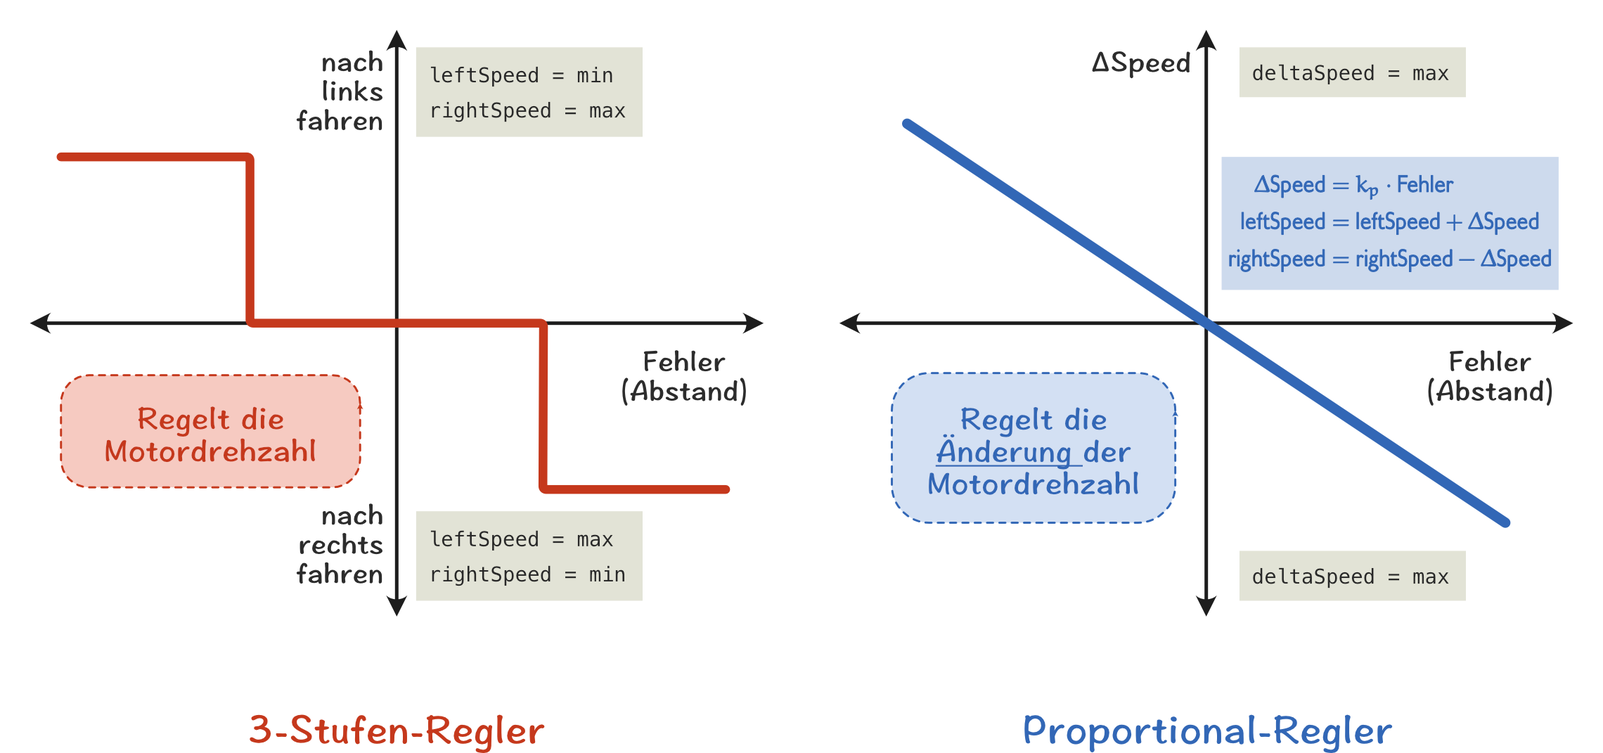
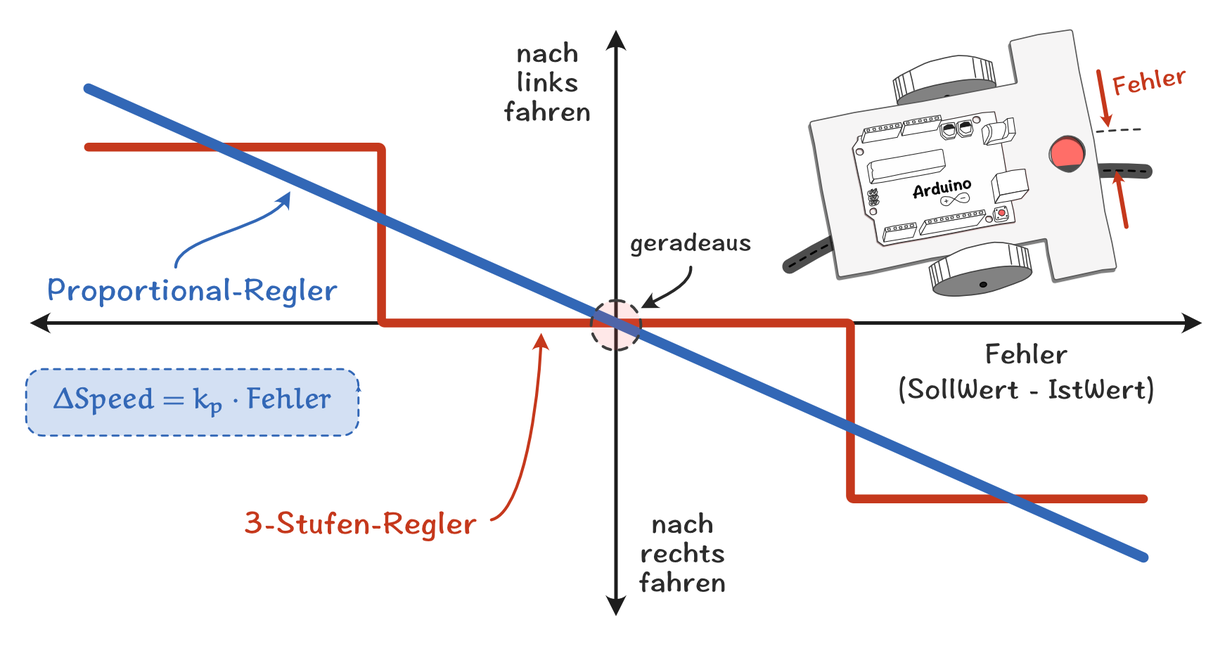
Deploy website
Deploy website version based on c217b286052e6c48548734629983fd437e1c0af8

diff --git a/docs/botLineFollower.html b/docs/botLineFollower.html
@@ -74,22 +74,19 @@
 <li><strong>Fall C</strong>  Der Sensor befindet sich genau zur Hälfte über der Linie und ist somit genau über der Kante. Der Roboter kann einfache geradeaus fahren.</li>
 </ul>
 <p>Ein Algorithmus zur Steuerung des Roboters (ohne Fall C) könnte folgendermaßen aussehen:</p>
-<pre><code class="hljs"><span class="hljs-comment">// Einfacher Algorithmus zum Kantenfolgen mit nur einem IR-Sensor</span>
+<pre><code class="hljs"><span class="hljs-comment">// PSEUDO-CODE</span>
+<span class="hljs-comment">// Einfacher Algorithmus zum Kantenfolgen mit nur einem IR-Sensor</span>
 
 wertKante = <span class="hljs-number">600</span> <span class="hljs-comment">// muss angepasst werde</span>
 
 wiederhole
-{
     sensorWert = lese<span class="hljs-constructor">IRLicht()</span>
     <span class="hljs-keyword">if</span> ( sensorWert &gt; wertKante )
-    {
         fahre<span class="hljs-constructor">Links()</span> <span class="hljs-comment">// Fall A</span>
-    }
+        
     <span class="hljs-keyword">else</span> <span class="hljs-keyword">if</span> ( sensorWert &lt; wertKante )
-    {
         fahre<span class="hljs-constructor">Rechts()</span> <span class="hljs-comment">// Fall B</span>
-    }
-}
+
 </code></pre>
 <h4><a class="anchor" aria-hidden="true" id="kalibrierung"></a><a href="#kalibrierung" aria-hidden="true" class="hash-link"><svg class="hash-link-icon" aria-hidden="true" height="16" version="1.1" viewBox="0 0 16 16" width="16"><path fill-rule="evenodd" d="M4 9h1v1H4c-1.5 0-3-1.69-3-3.5S2.55 3 4 3h4c1.45 0 3 1.69 3 3.5 0 1.41-.91 2.72-2 3.25V8.59c.58-.45 1-1.27 1-2.09C10 5.22 8.98 4 8 4H4c-.98 0-2 1.22-2 2.5S3 9 4 9zm9-3h-1v1h1c1 0 2 1.22 2 2.5S13.98 12 13 12H9c-.98 0-2-1.22-2-2.5 0-.83.42-1.64 1-2.09V6.25c-1.09.53-2 1.84-2 3.25C6 11.31 7.55 13 9 13h4c1.45 0 3-1.69 3-3.5S14.5 6 13 6z"></path></svg></a>Kalibrierung</h4>
 <p>Bleibt die Frage, wie der Sensorwerte für die Linienkante ermittelt wird, der Roboter also kalibriert werden kann. Der einfachste, wenn auch nicht genaueste Weg ist, z.B. mit Hilfe der seriellen Schnittstelle die Maximalwert und den Minimalwert des reflektieren IR Lichts für die Linie und die Fläche daneben zu bestimmen. Der Mittelwert aus beiden Werten sollte der Linienkante entsprechen und kann dann als Konstante in das Programm eingefügt werden.</p>
@@ -109,32 +106,40 @@ wiederhole
 <h3><a class="anchor" aria-hidden="true" id="proportional-regler-einfach"></a><a href="#proportional-regler-einfach" aria-hidden="true" class="hash-link"><svg class="hash-link-icon" aria-hidden="true" height="16" version="1.1" viewBox="0 0 16 16" width="16"><path fill-rule="evenodd" d="M4 9h1v1H4c-1.5 0-3-1.69-3-3.5S2.55 3 4 3h4c1.45 0 3 1.69 3 3.5 0 1.41-.91 2.72-2 3.25V8.59c.58-.45 1-1.27 1-2.09C10 5.22 8.98 4 8 4H4c-.98 0-2 1.22-2 2.5S3 9 4 9zm9-3h-1v1h1c1 0 2 1.22 2 2.5S13.98 12 13 12H9c-.98 0-2-1.22-2-2.5 0-.83.42-1.64 1-2.09V6.25c-1.09.53-2 1.84-2 3.25C6 11.31 7.55 13 9 13h4c1.45 0 3-1.69 3-3.5S14.5 6 13 6z"></path></svg></a>Proportional-Regler (einfach)</h3>
 <p>Der einfache Algorithmus zum Kantenfolgen funktioniert bei Linien und Abzweigung meistens ganz gut, lässt aber den Roboter die Linie entlangzappeln anstatt ihr geschmeidig zu folgen. Auch wird es mit dem einfache Algorithmus schwierig, dem Roboter bei Kreuzungen oder Abzweigung ein konkretes Verhalten zu programmieren.</p>
 <p>Ein wesentlich besserer Ansatz ist der <strong>Proportional-Regler</strong> (P-Regler), bei dem es nicht nur drei verschiedene Unterscheidungsstufen mit drei verschiedenen Motordrehzahlen gibt, sondern für jeden Unterschied zwischen Sollwert (also)</p>
-<p><img src="../img/GraphPRegler.png" alt="Proportional Control" width=95% height=auto/></p>
-<p>Bei einem (Proportional-)Regler wird davon ausgegangen, dass ein System eine <strong>Sollgröße</strong> \( w \) einhalten soll. In unseren Fall ist die Sollgröße der vom Sensor zu erzielende Sensorwert der Linienkante. Weicht der <strong>Istwert</strong> \( y \), also der aktuell gemessene Sensorwert von der Soll Größe ab, so lässt sich die <strong>Regeldifferenz</strong> bzw. der <strong>Fehlerwert</strong> \( e \) leicht als Differenz aus Soll- und Istwert berechnen: \( e = w - y \).
-Die <strong>Änderung</strong> der  Motordrehzahl \( \Delta d \) (ein Rad wird schneller und das andere wird langsamer) lässt sich nun mit einem Proportionalitätsfaktor \( k_p \) aus diesem Fehlerwert bestimmen:
-$$ \Delta d = k_p \cdot e $$.</p>
-<p>Ein Algorithmus für den Kantenfolger könnte wie folgt aussehen:</p>
-<pre><code class="hljs"><span class="hljs-comment">//Einfacher P-Regler für einen Kantenfolger</span>
+<p><img src="../img/GraphPRegler.png" alt="Proportional Control" width=75% height=auto/></p>
+<p>Bei einem (Proportional-)Regler wird davon ausgegangen, dass ein System eine <strong>Sollgröße</strong> \( w \) einhalten soll. In unseren Fall ist die Sollgröße der vom Sensor zu erzielende Sensorwert der Linienkante. Weicht der <strong>Istwert</strong> \( y \), also der aktuell gemessene Sensorwert von der Soll Größe ab,so lässt sich die <strong>Regeldifferenz</strong> bzw. der <strong>Fehlerwert</strong> \( e \) leicht als Differenz aus Soll- und Istwert berechnen: \( e = w - y \). <strong>Das Ziel eines jeden Reglers ist, es diesen Fehlerwert so klein wie möglich zu halten.</strong> Im Fall des Kantenfolgers bedeutet das, dass der Roboter möglichst immer über der Kante bleibt.</p>
+<p>Im Gegensatz zum 3-Stufen-Regler, bei dem für drei Bereiche drei feste Werte für die Motordrehzahl (und damit das Kurvenverhalten) festgelegt wurden, wird beim P-Regler die <strong>Abweichung der Motordrehzahl</strong> <code>deltaSpeed</code> von einer Normgröße <code>speed</code> gesteuert. Die aktuelle Motordrehzahl ergibt sich dann als Summe aus der Normgröße und dieser Abweichung. Wird die Geschwindigkeitsänderung <code>deltaSpeed</code> zur der Drehzahl des linken Rades addiert und von der Drehzahl des rechten Rades abgezogen, fährt der Roboter mit einer positiven Geschwindigkeitsänderung nach rechts und mit einer negativen Differenzgeschwindigkeit nach links:</p>
+<pre><code class="hljs"><span class="hljs-comment">// PSEUDO-CODE </span>
+<span class="hljs-comment">// speed &gt; 0: Rechtskurve</span>
+<span class="hljs-comment">// speed &lt; 0: Linkskurve</span>
 
-wertKante = <span class="hljs-number">600</span> <span class="hljs-comment">// Besser automatisch bestimmen.</span>
-Kp = <span class="hljs-number">1</span>          <span class="hljs-comment">// Proportionalitätsfaktor des P-Reglers. Probieren, um den richtigen Wert zu finden.</span>
-speed = <span class="hljs-number">100</span>     <span class="hljs-comment">// Richtwert für die Motordrehzahl</span>
+leftSpeed  = <span class="hljs-symbol">speed</span> + deltaSpeed  <span class="hljs-comment">// Drehzahl linkes Rad</span>
+rightSpeed = <span class="hljs-symbol">speed</span> - deltaSpeed  <span class="hljs-comment">// Drehzahl rechtes Rad</span>
+</code></pre>
+<p>Die <strong>Geschwindigkeitsänderung</strong> der  Motordrehzahl \( \Delta \text{Speed} \)  lässt sich mit einem Proportionalitätsfaktor \( k_p \) aus dem Fehlerwert bestimmen:
+$$ \Delta \text{Speed} = k_p \cdot e $$.</p>
+<p>Die Wahl des Faktors \( k_p \) hat einen erheblichen Einfluss auf Fahrverhalten des Roboters. Ist \(k_p \) zu klein, wird der Roboter die Kante ganz schnell verlieren, ist  \(k_p \) zu groß, so fängt der Roboter wieder an zu wackeln. In diesem Fall spricht man auch von einem oszillierenden Verhalten.</p>
+<h3><a class="anchor" aria-hidden="true" id="algorithmus-kantenfolger-mit-p-regler"></a><a href="#algorithmus-kantenfolger-mit-p-regler" aria-hidden="true" class="hash-link"><svg class="hash-link-icon" aria-hidden="true" height="16" version="1.1" viewBox="0 0 16 16" width="16"><path fill-rule="evenodd" d="M4 9h1v1H4c-1.5 0-3-1.69-3-3.5S2.55 3 4 3h4c1.45 0 3 1.69 3 3.5 0 1.41-.91 2.72-2 3.25V8.59c.58-.45 1-1.27 1-2.09C10 5.22 8.98 4 8 4H4c-.98 0-2 1.22-2 2.5S3 9 4 9zm9-3h-1v1h1c1 0 2 1.22 2 2.5S13.98 12 13 12H9c-.98 0-2-1.22-2-2.5 0-.83.42-1.64 1-2.09V6.25c-1.09.53-2 1.84-2 3.25C6 11.31 7.55 13 9 13h4c1.45 0 3-1.69 3-3.5S14.5 6 13 6z"></path></svg></a>Algorithmus: Kantenfolger mit P-Regler</h3>
+<p>Der Algorithmus für den Kantenfolger mit P-Regler könnte wie folgt aussehen:</p>
+<pre><code class="hljs"><span class="hljs-comment">// PSEUDO-CODE</span>
+<span class="hljs-comment">// Einfacher P-Regler für einen Kantenfolger</span>
+
+wertKante = <span class="hljs-number">600</span>   <span class="hljs-comment">// Besser automatisch bestimmen.</span>
+Kp        = <span class="hljs-number">0.3</span>   <span class="hljs-comment">// Proportionalitätsfaktor des P-Reglers. Ausprobieren, um den richtigen Wert zu finden.</span>
+speed     = <span class="hljs-number">100</span>   <span class="hljs-comment">// Richtwert für die Motordrehzahl (Normwert)</span>
 
 wiederhole
-{
-    sensorWert = leseIRLicht()
-    e = wertKante - sensorWert  <span class="hljs-comment">// Fehlerwert, Regeldifferenz</span>
-    deltaSpeed = Kp * e
-    leftSpeed = speed + deltaSpeed;
-    setMotors()
-
-}
-
+    sensorWert = lese<span class="hljs-constructor">IRLicht()</span>
+    e = wertKante - sensorWert       <span class="hljs-comment">// Fehlerwert, Regeldifferenz</span>
+    deltaSpeed = Kp<span class="hljs-operator"> * </span>e              <span class="hljs-comment">// Geschwindigkeitsänderung</span>
+    leftSpeed  = speed + deltaSpeed  <span class="hljs-comment">// Drehzahl linkes Rad</span>
+    rightSpeed = speed - deltaSpeed  <span class="hljs-comment">// Drehzahl rechtes Rad</span>
+    set<span class="hljs-constructor">Motors(<span class="hljs-params">leftSpeed</span>,<span class="hljs-params">rightSpeed</span>)</span>  <span class="hljs-comment">// Aktualisieren der Motordrehzahlen</span>
 </code></pre>
 <h2><a class="anchor" aria-hidden="true" id="linienfolger-mit-mehreren-ir-sensoren"></a><a href="#linienfolger-mit-mehreren-ir-sensoren" aria-hidden="true" class="hash-link"><svg class="hash-link-icon" aria-hidden="true" height="16" version="1.1" viewBox="0 0 16 16" width="16"><path fill-rule="evenodd" d="M4 9h1v1H4c-1.5 0-3-1.69-3-3.5S2.55 3 4 3h4c1.45 0 3 1.69 3 3.5 0 1.41-.91 2.72-2 3.25V8.59c.58-.45 1-1.27 1-2.09C10 5.22 8.98 4 8 4H4c-.98 0-2 1.22-2 2.5S3 9 4 9zm9-3h-1v1h1c1 0 2 1.22 2 2.5S13.98 12 13 12H9c-.98 0-2-1.22-2-2.5 0-.83.42-1.64 1-2.09V6.25c-1.09.53-2 1.84-2 3.25C6 11.31 7.55 13 9 13h4c1.45 0 3-1.69 3-3.5S14.5 6 13 6z"></path></svg></a>Linienfolger mit mehreren IR Sensoren</h2>
 <h3><a class="anchor" aria-hidden="true" id="proportional-regler-komplex"></a><a href="#proportional-regler-komplex" aria-hidden="true" class="hash-link"><svg class="hash-link-icon" aria-hidden="true" height="16" version="1.1" viewBox="0 0 16 16" width="16"><path fill-rule="evenodd" d="M4 9h1v1H4c-1.5 0-3-1.69-3-3.5S2.55 3 4 3h4c1.45 0 3 1.69 3 3.5 0 1.41-.91 2.72-2 3.25V8.59c.58-.45 1-1.27 1-2.09C10 5.22 8.98 4 8 4H4c-.98 0-2 1.22-2 2.5S3 9 4 9zm9-3h-1v1h1c1 0 2 1.22 2 2.5S13.98 12 13 12H9c-.98 0-2-1.22-2-2.5 0-.83.42-1.64 1-2.09V6.25c-1.09.53-2 1.84-2 3.25C6 11.31 7.55 13 9 13h4c1.45 0 3-1.69 3-3.5S14.5 6 13 6z"></path></svg></a>Proportional-Regler (komplex)</h3>
 <p><img src="../img/BotOnLine3Sens.png" alt="Line following robot with 3 Sensors" width=80% height=auto/></p>
-</span></div></article></div><div class="docs-prevnext"><a class="docs-next button" href="/docs/botObstacle"><span>Hinderniserkennung</span><span class="arrow-next"> →</span></a></div></div></div><nav class="onPageNav"><ul class="toc-headings"><li><a href="#linienfolger-mit-einem-ir-sensor-kantenfolger">Linienfolger mit einem IR Sensor (Kantenfolger)</a><ul class="toc-headings"><li><a href="#kantenfolger-algorithmus">Kantenfolger-Algorithmus</a></li><li><a href="#aufgaben-kantenfolger">Aufgaben (Kantenfolger)</a></li><li><a href="#proportional-regler-einfach">Proportional-Regler (einfach)</a></li></ul></li><li><a href="#linienfolger-mit-mehreren-ir-sensoren">Linienfolger mit mehreren IR Sensoren</a><ul class="toc-headings"><li><a href="#proportional-regler-komplex">Proportional-Regler (komplex)</a></li></ul></li></ul></nav></div><footer class="nav-footer" id="footer"><section class="sitemap"><a href="/" class="nav-home"><img src="/img/LogoSmallRed.svg" alt="Let&#x27;s rule the bots!  " width="66" height="58"/></a><div><a href="/blog">Blog</a><a href="https://www.youtube.com/watch?v=ARJ8cAGm6JE">HAL 9000</a></div><div><a href="http://www.osztiem.de/home/startseite/">OSZ TIEM</a></div></section><section class="copyright">Copyright © 2019 Stefan Warm</section></footer></div><script type="text/javascript" src="https://cdn.jsdelivr.net/docsearch.js/1/docsearch.min.js"></script><script>
+</span></div></article></div><div class="docs-prevnext"><a class="docs-next button" href="/docs/botObstacle"><span>Hinderniserkennung</span><span class="arrow-next"> →</span></a></div></div></div><nav class="onPageNav"><ul class="toc-headings"><li><a href="#linienfolger-mit-einem-ir-sensor-kantenfolger">Linienfolger mit einem IR Sensor (Kantenfolger)</a><ul class="toc-headings"><li><a href="#kantenfolger-algorithmus">Kantenfolger-Algorithmus</a></li><li><a href="#aufgaben-kantenfolger">Aufgaben (Kantenfolger)</a></li><li><a href="#proportional-regler-einfach">Proportional-Regler (einfach)</a></li><li><a href="#algorithmus-kantenfolger-mit-p-regler">Algorithmus: Kantenfolger mit P-Regler</a></li></ul></li><li><a href="#linienfolger-mit-mehreren-ir-sensoren">Linienfolger mit mehreren IR Sensoren</a><ul class="toc-headings"><li><a href="#proportional-regler-komplex">Proportional-Regler (komplex)</a></li></ul></li></ul></nav></div><footer class="nav-footer" id="footer"><section class="sitemap"><a href="/" class="nav-home"><img src="/img/LogoSmallRed.svg" alt="Let&#x27;s rule the bots!  " width="66" height="58"/></a><div><a href="/blog">Blog</a><a href="https://www.youtube.com/watch?v=ARJ8cAGm6JE">HAL 9000</a></div><div><a href="http://www.osztiem.de/home/startseite/">OSZ TIEM</a></div></section><section class="copyright">Copyright © 2019 Stefan Warm</section></footer></div><script type="text/javascript" src="https://cdn.jsdelivr.net/docsearch.js/1/docsearch.min.js"></script><script>
                 document.addEventListener('keyup', function(e) {
                   if (e.target !== document.body) {
                     return;

diff --git a/docs/botLineFollower/index.html b/docs/botLineFollower/index.html
@@ -74,22 +74,19 @@
 <li><strong>Fall C</strong>  Der Sensor befindet sich genau zur Hälfte über der Linie und ist somit genau über der Kante. Der Roboter kann einfache geradeaus fahren.</li>
 </ul>
 <p>Ein Algorithmus zur Steuerung des Roboters (ohne Fall C) könnte folgendermaßen aussehen:</p>
-<pre><code class="hljs"><span class="hljs-comment">// Einfacher Algorithmus zum Kantenfolgen mit nur einem IR-Sensor</span>
+<pre><code class="hljs"><span class="hljs-comment">// PSEUDO-CODE</span>
+<span class="hljs-comment">// Einfacher Algorithmus zum Kantenfolgen mit nur einem IR-Sensor</span>
 
 wertKante = <span class="hljs-number">600</span> <span class="hljs-comment">// muss angepasst werde</span>
 
 wiederhole
-{
     sensorWert = lese<span class="hljs-constructor">IRLicht()</span>
     <span class="hljs-keyword">if</span> ( sensorWert &gt; wertKante )
-    {
         fahre<span class="hljs-constructor">Links()</span> <span class="hljs-comment">// Fall A</span>
-    }
+        
     <span class="hljs-keyword">else</span> <span class="hljs-keyword">if</span> ( sensorWert &lt; wertKante )
-    {
         fahre<span class="hljs-constructor">Rechts()</span> <span class="hljs-comment">// Fall B</span>
-    }
-}
+
 </code></pre>
 <h4><a class="anchor" aria-hidden="true" id="kalibrierung"></a><a href="#kalibrierung" aria-hidden="true" class="hash-link"><svg class="hash-link-icon" aria-hidden="true" height="16" version="1.1" viewBox="0 0 16 16" width="16"><path fill-rule="evenodd" d="M4 9h1v1H4c-1.5 0-3-1.69-3-3.5S2.55 3 4 3h4c1.45 0 3 1.69 3 3.5 0 1.41-.91 2.72-2 3.25V8.59c.58-.45 1-1.27 1-2.09C10 5.22 8.98 4 8 4H4c-.98 0-2 1.22-2 2.5S3 9 4 9zm9-3h-1v1h1c1 0 2 1.22 2 2.5S13.98 12 13 12H9c-.98 0-2-1.22-2-2.5 0-.83.42-1.64 1-2.09V6.25c-1.09.53-2 1.84-2 3.25C6 11.31 7.55 13 9 13h4c1.45 0 3-1.69 3-3.5S14.5 6 13 6z"></path></svg></a>Kalibrierung</h4>
 <p>Bleibt die Frage, wie der Sensorwerte für die Linienkante ermittelt wird, der Roboter also kalibriert werden kann. Der einfachste, wenn auch nicht genaueste Weg ist, z.B. mit Hilfe der seriellen Schnittstelle die Maximalwert und den Minimalwert des reflektieren IR Lichts für die Linie und die Fläche daneben zu bestimmen. Der Mittelwert aus beiden Werten sollte der Linienkante entsprechen und kann dann als Konstante in das Programm eingefügt werden.</p>
@@ -109,32 +106,40 @@ wiederhole
 <h3><a class="anchor" aria-hidden="true" id="proportional-regler-einfach"></a><a href="#proportional-regler-einfach" aria-hidden="true" class="hash-link"><svg class="hash-link-icon" aria-hidden="true" height="16" version="1.1" viewBox="0 0 16 16" width="16"><path fill-rule="evenodd" d="M4 9h1v1H4c-1.5 0-3-1.69-3-3.5S2.55 3 4 3h4c1.45 0 3 1.69 3 3.5 0 1.41-.91 2.72-2 3.25V8.59c.58-.45 1-1.27 1-2.09C10 5.22 8.98 4 8 4H4c-.98 0-2 1.22-2 2.5S3 9 4 9zm9-3h-1v1h1c1 0 2 1.22 2 2.5S13.98 12 13 12H9c-.98 0-2-1.22-2-2.5 0-.83.42-1.64 1-2.09V6.25c-1.09.53-2 1.84-2 3.25C6 11.31 7.55 13 9 13h4c1.45 0 3-1.69 3-3.5S14.5 6 13 6z"></path></svg></a>Proportional-Regler (einfach)</h3>
 <p>Der einfache Algorithmus zum Kantenfolgen funktioniert bei Linien und Abzweigung meistens ganz gut, lässt aber den Roboter die Linie entlangzappeln anstatt ihr geschmeidig zu folgen. Auch wird es mit dem einfache Algorithmus schwierig, dem Roboter bei Kreuzungen oder Abzweigung ein konkretes Verhalten zu programmieren.</p>
 <p>Ein wesentlich besserer Ansatz ist der <strong>Proportional-Regler</strong> (P-Regler), bei dem es nicht nur drei verschiedene Unterscheidungsstufen mit drei verschiedenen Motordrehzahlen gibt, sondern für jeden Unterschied zwischen Sollwert (also)</p>
-<p><img src="../img/GraphPRegler.png" alt="Proportional Control" width=95% height=auto/></p>
-<p>Bei einem (Proportional-)Regler wird davon ausgegangen, dass ein System eine <strong>Sollgröße</strong> \( w \) einhalten soll. In unseren Fall ist die Sollgröße der vom Sensor zu erzielende Sensorwert der Linienkante. Weicht der <strong>Istwert</strong> \( y \), also der aktuell gemessene Sensorwert von der Soll Größe ab, so lässt sich die <strong>Regeldifferenz</strong> bzw. der <strong>Fehlerwert</strong> \( e \) leicht als Differenz aus Soll- und Istwert berechnen: \( e = w - y \).
-Die <strong>Änderung</strong> der  Motordrehzahl \( \Delta d \) (ein Rad wird schneller und das andere wird langsamer) lässt sich nun mit einem Proportionalitätsfaktor \( k_p \) aus diesem Fehlerwert bestimmen:
-$$ \Delta d = k_p \cdot e $$.</p>
-<p>Ein Algorithmus für den Kantenfolger könnte wie folgt aussehen:</p>
-<pre><code class="hljs"><span class="hljs-comment">//Einfacher P-Regler für einen Kantenfolger</span>
+<p><img src="../img/GraphPRegler.png" alt="Proportional Control" width=75% height=auto/></p>
+<p>Bei einem (Proportional-)Regler wird davon ausgegangen, dass ein System eine <strong>Sollgröße</strong> \( w \) einhalten soll. In unseren Fall ist die Sollgröße der vom Sensor zu erzielende Sensorwert der Linienkante. Weicht der <strong>Istwert</strong> \( y \), also der aktuell gemessene Sensorwert von der Soll Größe ab,so lässt sich die <strong>Regeldifferenz</strong> bzw. der <strong>Fehlerwert</strong> \( e \) leicht als Differenz aus Soll- und Istwert berechnen: \( e = w - y \). <strong>Das Ziel eines jeden Reglers ist, es diesen Fehlerwert so klein wie möglich zu halten.</strong> Im Fall des Kantenfolgers bedeutet das, dass der Roboter möglichst immer über der Kante bleibt.</p>
+<p>Im Gegensatz zum 3-Stufen-Regler, bei dem für drei Bereiche drei feste Werte für die Motordrehzahl (und damit das Kurvenverhalten) festgelegt wurden, wird beim P-Regler die <strong>Abweichung der Motordrehzahl</strong> <code>deltaSpeed</code> von einer Normgröße <code>speed</code> gesteuert. Die aktuelle Motordrehzahl ergibt sich dann als Summe aus der Normgröße und dieser Abweichung. Wird die Geschwindigkeitsänderung <code>deltaSpeed</code> zur der Drehzahl des linken Rades addiert und von der Drehzahl des rechten Rades abgezogen, fährt der Roboter mit einer positiven Geschwindigkeitsänderung nach rechts und mit einer negativen Differenzgeschwindigkeit nach links:</p>
+<pre><code class="hljs"><span class="hljs-comment">// PSEUDO-CODE </span>
+<span class="hljs-comment">// speed &gt; 0: Rechtskurve</span>
+<span class="hljs-comment">// speed &lt; 0: Linkskurve</span>
 
-wertKante = <span class="hljs-number">600</span> <span class="hljs-comment">// Besser automatisch bestimmen.</span>
-Kp = <span class="hljs-number">1</span>          <span class="hljs-comment">// Proportionalitätsfaktor des P-Reglers. Probieren, um den richtigen Wert zu finden.</span>
-speed = <span class="hljs-number">100</span>     <span class="hljs-comment">// Richtwert für die Motordrehzahl</span>
+leftSpeed  = <span class="hljs-symbol">speed</span> + deltaSpeed  <span class="hljs-comment">// Drehzahl linkes Rad</span>
+rightSpeed = <span class="hljs-symbol">speed</span> - deltaSpeed  <span class="hljs-comment">// Drehzahl rechtes Rad</span>
+</code></pre>
+<p>Die <strong>Geschwindigkeitsänderung</strong> der  Motordrehzahl \( \Delta \text{Speed} \)  lässt sich mit einem Proportionalitätsfaktor \( k_p \) aus dem Fehlerwert bestimmen:
+$$ \Delta \text{Speed} = k_p \cdot e $$.</p>
+<p>Die Wahl des Faktors \( k_p \) hat einen erheblichen Einfluss auf Fahrverhalten des Roboters. Ist \(k_p \) zu klein, wird der Roboter die Kante ganz schnell verlieren, ist  \(k_p \) zu groß, so fängt der Roboter wieder an zu wackeln. In diesem Fall spricht man auch von einem oszillierenden Verhalten.</p>
+<h3><a class="anchor" aria-hidden="true" id="algorithmus-kantenfolger-mit-p-regler"></a><a href="#algorithmus-kantenfolger-mit-p-regler" aria-hidden="true" class="hash-link"><svg class="hash-link-icon" aria-hidden="true" height="16" version="1.1" viewBox="0 0 16 16" width="16"><path fill-rule="evenodd" d="M4 9h1v1H4c-1.5 0-3-1.69-3-3.5S2.55 3 4 3h4c1.45 0 3 1.69 3 3.5 0 1.41-.91 2.72-2 3.25V8.59c.58-.45 1-1.27 1-2.09C10 5.22 8.98 4 8 4H4c-.98 0-2 1.22-2 2.5S3 9 4 9zm9-3h-1v1h1c1 0 2 1.22 2 2.5S13.98 12 13 12H9c-.98 0-2-1.22-2-2.5 0-.83.42-1.64 1-2.09V6.25c-1.09.53-2 1.84-2 3.25C6 11.31 7.55 13 9 13h4c1.45 0 3-1.69 3-3.5S14.5 6 13 6z"></path></svg></a>Algorithmus: Kantenfolger mit P-Regler</h3>
+<p>Der Algorithmus für den Kantenfolger mit P-Regler könnte wie folgt aussehen:</p>
+<pre><code class="hljs"><span class="hljs-comment">// PSEUDO-CODE</span>
+<span class="hljs-comment">// Einfacher P-Regler für einen Kantenfolger</span>
+
+wertKante = <span class="hljs-number">600</span>   <span class="hljs-comment">// Besser automatisch bestimmen.</span>
+Kp        = <span class="hljs-number">0.3</span>   <span class="hljs-comment">// Proportionalitätsfaktor des P-Reglers. Ausprobieren, um den richtigen Wert zu finden.</span>
+speed     = <span class="hljs-number">100</span>   <span class="hljs-comment">// Richtwert für die Motordrehzahl (Normwert)</span>
 
 wiederhole
-{
-    sensorWert = leseIRLicht()
-    e = wertKante - sensorWert  <span class="hljs-comment">// Fehlerwert, Regeldifferenz</span>
-    deltaSpeed = Kp * e
-    leftSpeed = speed + deltaSpeed;
-    setMotors()
-
-}
-
+    sensorWert = lese<span class="hljs-constructor">IRLicht()</span>
+    e = wertKante - sensorWert       <span class="hljs-comment">// Fehlerwert, Regeldifferenz</span>
+    deltaSpeed = Kp<span class="hljs-operator"> * </span>e              <span class="hljs-comment">// Geschwindigkeitsänderung</span>
+    leftSpeed  = speed + deltaSpeed  <span class="hljs-comment">// Drehzahl linkes Rad</span>
+    rightSpeed = speed - deltaSpeed  <span class="hljs-comment">// Drehzahl rechtes Rad</span>
+    set<span class="hljs-constructor">Motors(<span class="hljs-params">leftSpeed</span>,<span class="hljs-params">rightSpeed</span>)</span>  <span class="hljs-comment">// Aktualisieren der Motordrehzahlen</span>
 </code></pre>
 <h2><a class="anchor" aria-hidden="true" id="linienfolger-mit-mehreren-ir-sensoren"></a><a href="#linienfolger-mit-mehreren-ir-sensoren" aria-hidden="true" class="hash-link"><svg class="hash-link-icon" aria-hidden="true" height="16" version="1.1" viewBox="0 0 16 16" width="16"><path fill-rule="evenodd" d="M4 9h1v1H4c-1.5 0-3-1.69-3-3.5S2.55 3 4 3h4c1.45 0 3 1.69 3 3.5 0 1.41-.91 2.72-2 3.25V8.59c.58-.45 1-1.27 1-2.09C10 5.22 8.98 4 8 4H4c-.98 0-2 1.22-2 2.5S3 9 4 9zm9-3h-1v1h1c1 0 2 1.22 2 2.5S13.98 12 13 12H9c-.98 0-2-1.22-2-2.5 0-.83.42-1.64 1-2.09V6.25c-1.09.53-2 1.84-2 3.25C6 11.31 7.55 13 9 13h4c1.45 0 3-1.69 3-3.5S14.5 6 13 6z"></path></svg></a>Linienfolger mit mehreren IR Sensoren</h2>
 <h3><a class="anchor" aria-hidden="true" id="proportional-regler-komplex"></a><a href="#proportional-regler-komplex" aria-hidden="true" class="hash-link"><svg class="hash-link-icon" aria-hidden="true" height="16" version="1.1" viewBox="0 0 16 16" width="16"><path fill-rule="evenodd" d="M4 9h1v1H4c-1.5 0-3-1.69-3-3.5S2.55 3 4 3h4c1.45 0 3 1.69 3 3.5 0 1.41-.91 2.72-2 3.25V8.59c.58-.45 1-1.27 1-2.09C10 5.22 8.98 4 8 4H4c-.98 0-2 1.22-2 2.5S3 9 4 9zm9-3h-1v1h1c1 0 2 1.22 2 2.5S13.98 12 13 12H9c-.98 0-2-1.22-2-2.5 0-.83.42-1.64 1-2.09V6.25c-1.09.53-2 1.84-2 3.25C6 11.31 7.55 13 9 13h4c1.45 0 3-1.69 3-3.5S14.5 6 13 6z"></path></svg></a>Proportional-Regler (komplex)</h3>
 <p><img src="../img/BotOnLine3Sens.png" alt="Line following robot with 3 Sensors" width=80% height=auto/></p>
-</span></div></article></div><div class="docs-prevnext"><a class="docs-next button" href="/docs/botObstacle"><span>Hinderniserkennung</span><span class="arrow-next"> →</span></a></div></div></div><nav class="onPageNav"><ul class="toc-headings"><li><a href="#linienfolger-mit-einem-ir-sensor-kantenfolger">Linienfolger mit einem IR Sensor (Kantenfolger)</a><ul class="toc-headings"><li><a href="#kantenfolger-algorithmus">Kantenfolger-Algorithmus</a></li><li><a href="#aufgaben-kantenfolger">Aufgaben (Kantenfolger)</a></li><li><a href="#proportional-regler-einfach">Proportional-Regler (einfach)</a></li></ul></li><li><a href="#linienfolger-mit-mehreren-ir-sensoren">Linienfolger mit mehreren IR Sensoren</a><ul class="toc-headings"><li><a href="#proportional-regler-komplex">Proportional-Regler (komplex)</a></li></ul></li></ul></nav></div><footer class="nav-footer" id="footer"><section class="sitemap"><a href="/" class="nav-home"><img src="/img/LogoSmallRed.svg" alt="Let&#x27;s rule the bots!  " width="66" height="58"/></a><div><a href="/blog">Blog</a><a href="https://www.youtube.com/watch?v=ARJ8cAGm6JE">HAL 9000</a></div><div><a href="http://www.osztiem.de/home/startseite/">OSZ TIEM</a></div></section><section class="copyright">Copyright © 2019 Stefan Warm</section></footer></div><script type="text/javascript" src="https://cdn.jsdelivr.net/docsearch.js/1/docsearch.min.js"></script><script>
+</span></div></article></div><div class="docs-prevnext"><a class="docs-next button" href="/docs/botObstacle"><span>Hinderniserkennung</span><span class="arrow-next"> →</span></a></div></div></div><nav class="onPageNav"><ul class="toc-headings"><li><a href="#linienfolger-mit-einem-ir-sensor-kantenfolger">Linienfolger mit einem IR Sensor (Kantenfolger)</a><ul class="toc-headings"><li><a href="#kantenfolger-algorithmus">Kantenfolger-Algorithmus</a></li><li><a href="#aufgaben-kantenfolger">Aufgaben (Kantenfolger)</a></li><li><a href="#proportional-regler-einfach">Proportional-Regler (einfach)</a></li><li><a href="#algorithmus-kantenfolger-mit-p-regler">Algorithmus: Kantenfolger mit P-Regler</a></li></ul></li><li><a href="#linienfolger-mit-mehreren-ir-sensoren">Linienfolger mit mehreren IR Sensoren</a><ul class="toc-headings"><li><a href="#proportional-regler-komplex">Proportional-Regler (komplex)</a></li></ul></li></ul></nav></div><footer class="nav-footer" id="footer"><section class="sitemap"><a href="/" class="nav-home"><img src="/img/LogoSmallRed.svg" alt="Let&#x27;s rule the bots!  " width="66" height="58"/></a><div><a href="/blog">Blog</a><a href="https://www.youtube.com/watch?v=ARJ8cAGm6JE">HAL 9000</a></div><div><a href="http://www.osztiem.de/home/startseite/">OSZ TIEM</a></div></section><section class="copyright">Copyright © 2019 Stefan Warm</section></footer></div><script type="text/javascript" src="https://cdn.jsdelivr.net/docsearch.js/1/docsearch.min.js"></script><script>
                 document.addEventListener('keyup', function(e) {
                   if (e.target !== document.body) {
                     return;
